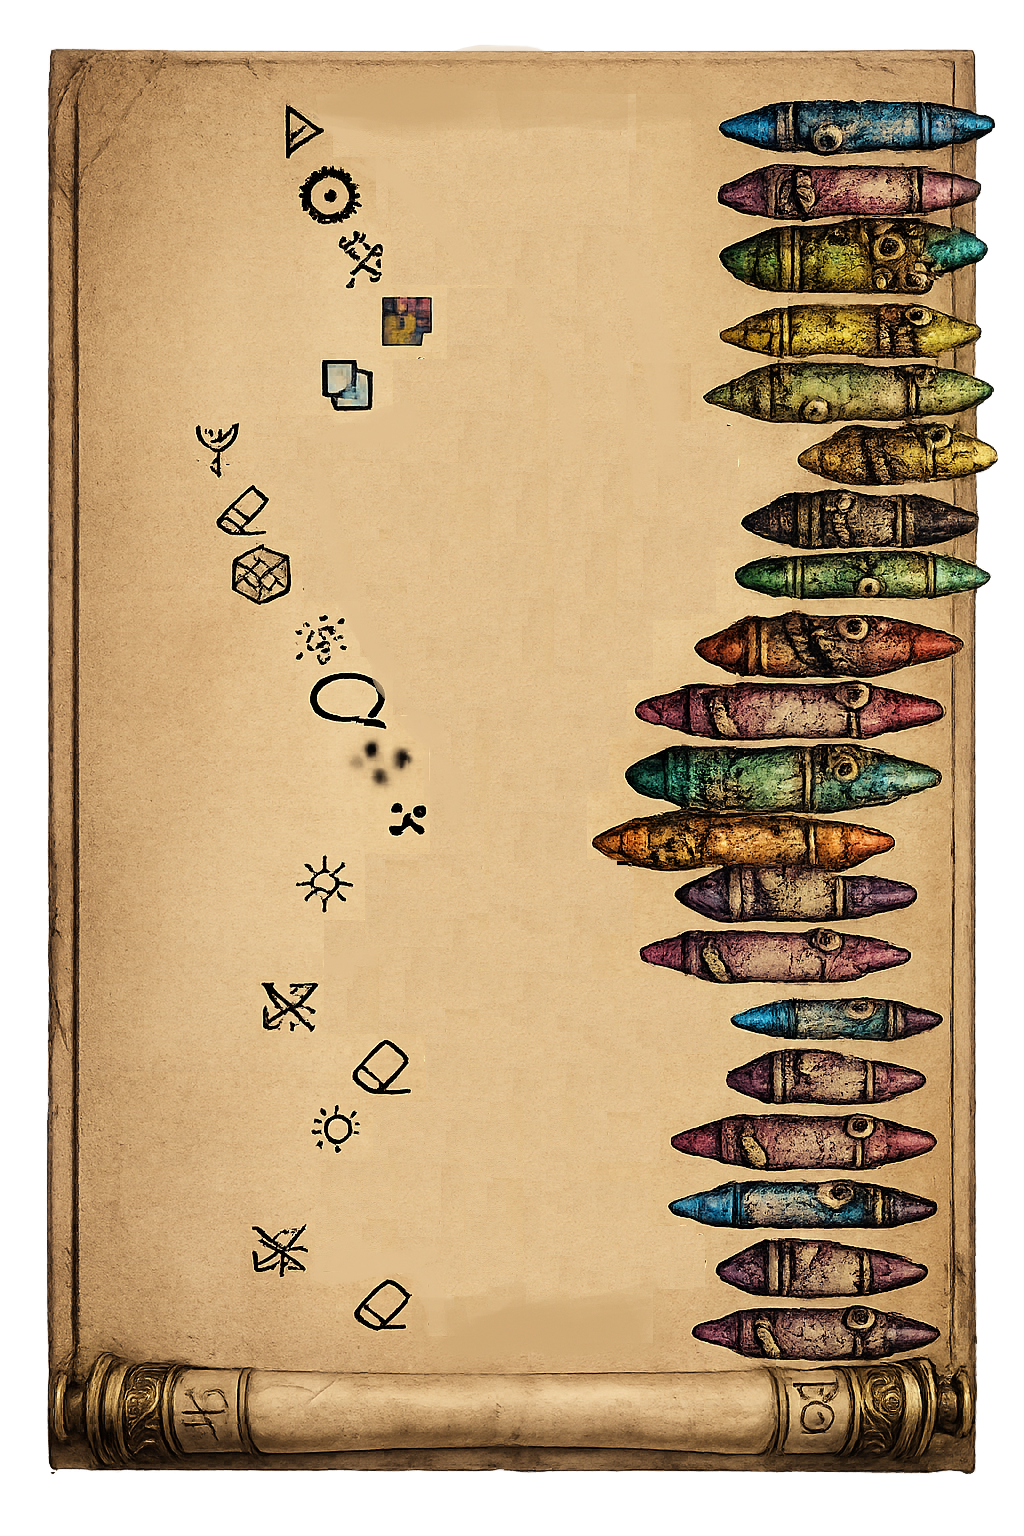
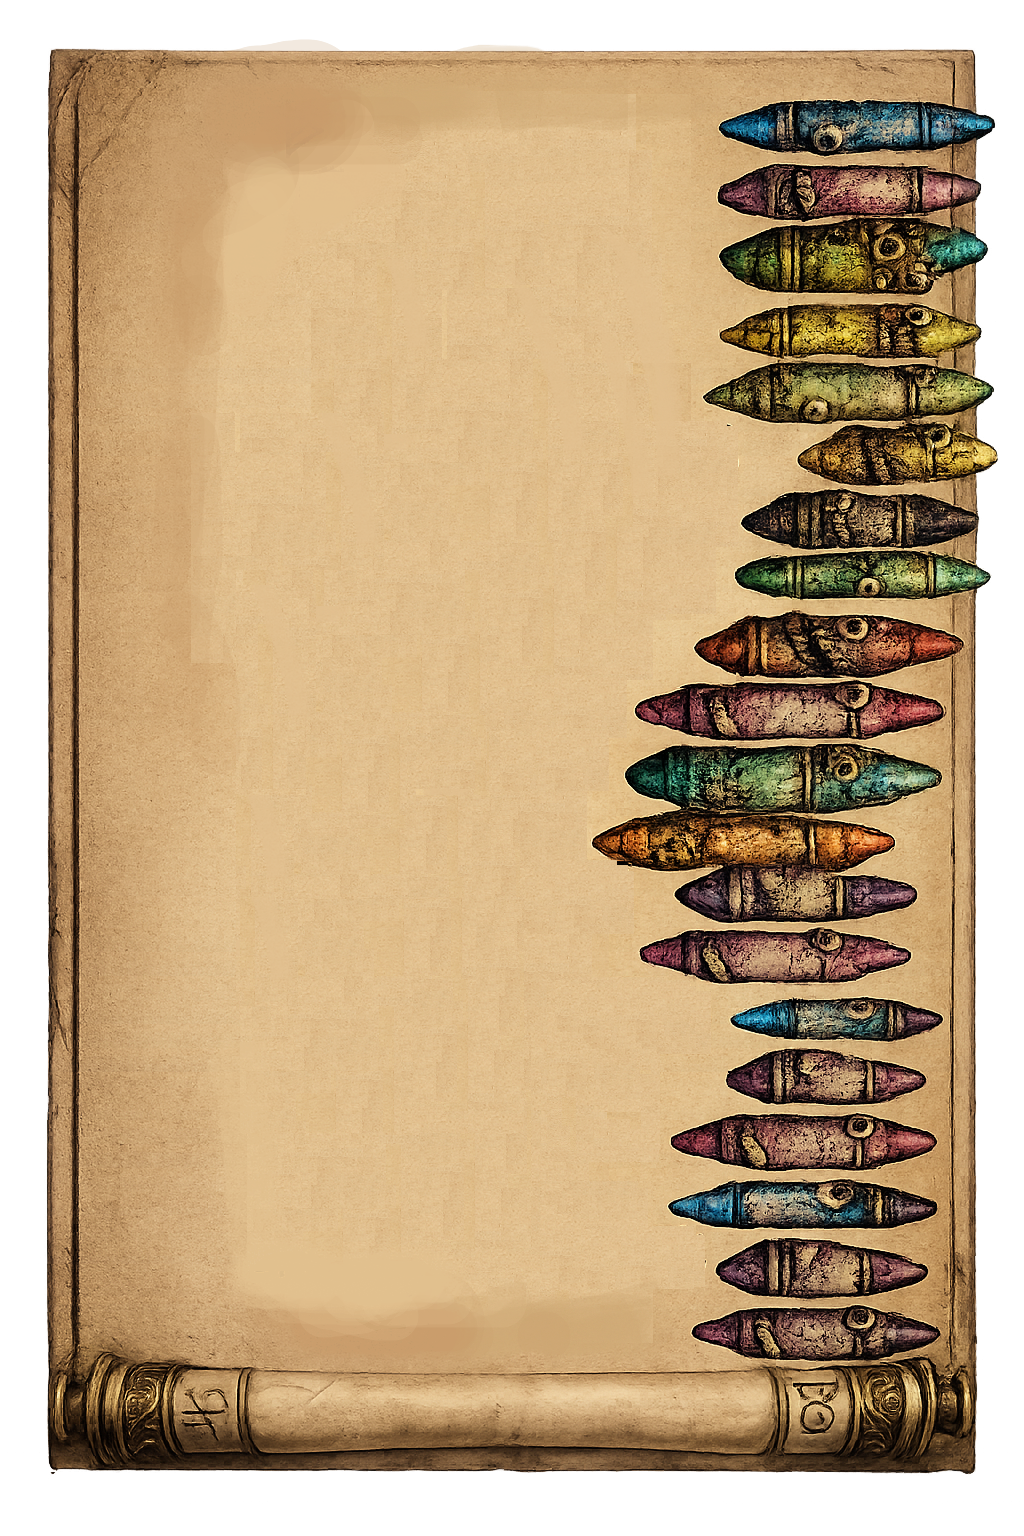
山崎担当箇所日報前

diff --git a/source/src/main/WebContent/css/processing.css b/source/src/main/WebContent/css/processing.css
@@ -1,4 +1,5 @@
 @charset "UTF-8";
+
 /* 背景画像設定 */
 body {
 	margin: 0;
@@ -26,7 +27,7 @@ body {
         height: 60vh;
         background-color:red;
         display: none;
-        
+        z-index: 1200;
     }
 
         .close-button {
@@ -53,6 +54,7 @@ body {
         padding-top: 20px;
         box-sizing: border-box;
         display: none;
+        z-index: 1000;
     }
 /* 閉じるボタン */
         .close-button {
@@ -72,17 +74,23 @@ body {
  }   
 
  /* テーマ */
- #theme {
- position: absolute;
- left: 60%;
- top: 4%;
- transform: translate(-50%, -50%);
+ #themeContainer {
+ position: relative;
+ left: 33vw;
+ top: -10vh;
  }
  
- #theme img {
- top: 20%;
- left:50%;
- width: 50%;
+ #themeContainer h2 {
+ z-index: 30;
+ position: absolute;
+ color: white;
+ left: 11vw;
+ top: 11vh;
+ }
+ #themeContainer img {
+ z-index: 20;
+ position: absolute;
+ width: 400px;
  height: auto;
  }
  /* タイマー */
@@ -108,22 +116,31 @@ body {
  
  /* キャンバス要素 */
  canvas {
+ z-index: 1100;
  position: absolute;
- left: 50%;
- top: 40%;
- transform: translate(-50%, 0%);
+ left: 27vw;
+ top: 17vh;
  
  }
  
  .kindContainer {
  position: relative;
- top: 0vh;
+ top: 20vh;
  left: 2vw; 
+ 
  }
  .kindContainer img {
  position: absolute;
  width: 20%;
  height: auto;
+ z-index: 901;
+ }
+ .kindContainer p {
+ position: absolute;
+ z-index: 902;
+ width: 10vw; 
+ height: auto;
+ 
  }
  /* 音声追加 */
  /* 画像 */
@@ -146,6 +163,7 @@ body {
         padding-top: 20px;
         box-sizing: border-box;
         display: none;
+        z-index: 1200;
     }
 /* 閉じるボタン */
         .close-button {
@@ -179,6 +197,7 @@ body {
         padding-top: 20px;
         box-sizing: border-box;
         display: none;
+        z-index: 1200;
     }
 /* 閉じるボタン */
         .close-button {
@@ -194,9 +213,4 @@ body {
             display: block;
         }      
 
-#caption {
-	position: absolute;
-        top: 80vh;
-        left: 30vw;
-}
 

diff --git a/source/src/main/java/servlet/ProcessingServlet.java b/source/src/main/java/servlet/ProcessingServlet.java
@@ -38,7 +38,9 @@ public class ProcessingServlet extends HttpServlet {
 	 * @see HttpServlet#doPost(HttpServletRequest request, HttpServletResponse response)
 	 */
 	protected void doPost(HttpServletRequest request, HttpServletResponse response) throws ServletException, IOException {
-		
+		RequestDispatcher dispatcher = 
+				request.getRequestDispatcher("/WEB-INF/jsp/processing.jsp");
+		dispatcher.forward(request, response);
 	}
 
 }